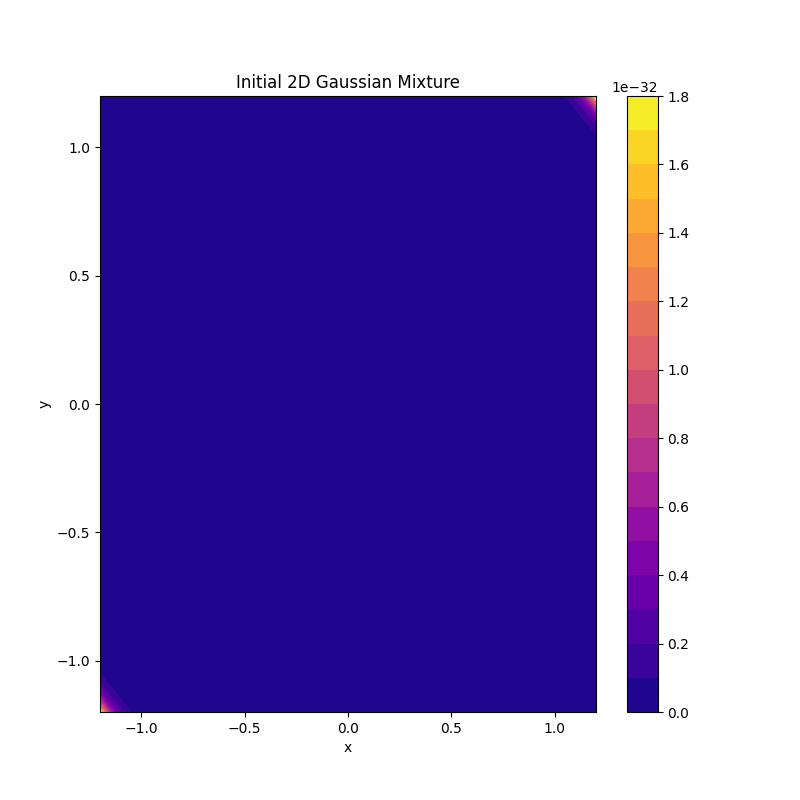
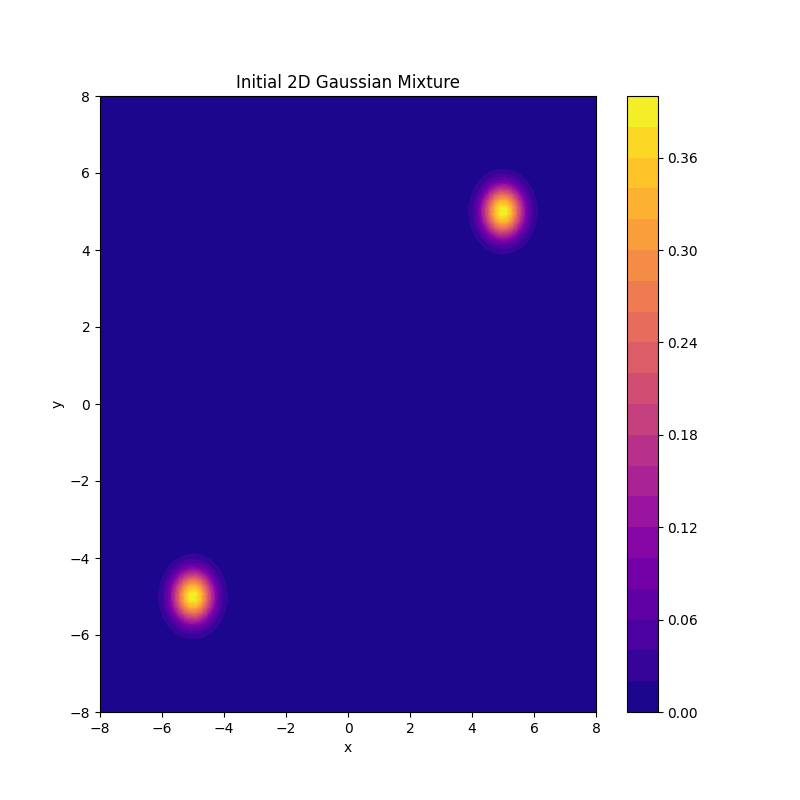
new images and new tikz

diff --git a/beamer_reports/recap_tikz.tex b/beamer_reports/recap_tikz.tex
@@ -17,6 +17,7 @@
     \draw (8,0,0.1) -- (8,0,-0.1) node[below] {$T=8$};
     \draw (5,0,0.1) -- (5,0,-0.1) node[below] {$t_s$};
     \draw (2,0,0.1) -- (2,0,-0.1) node[below] {$t_c$};
+    \draw (0,0,0.1) -- (0,0,-0.1) node[below] {$T=0$};
     
     % Zones de régimes colorées
     \fill[blue!20,opacity=0.3] (8,-2,0) -- (8,2,0) -- (5,2,0) -- (5,-2,0) -- cycle; % Régime III
@@ -28,10 +29,39 @@
     \node[above] at (3.5,0,0) {Régime II};
     \node[above] at (1,0,0) {Régime I};
 
-    % Encarts pour les coupes (y,z) - maintenant perpendiculaires à l'axe du temps
-    \draw[dashed] (1,-1.5,0) -- (1,-1.5,2) -- (1,1.5,2) -- (1,1.5,0) -- cycle; % Encart Régime I
-    \draw[dashed] (3.5,-1.5,0) -- (3.5,-1.5,2) -- (3.5,1.5,2) -- (3.5,1.5,0) -- cycle; % Encart Régime II
-    \draw[dashed] (7,-1.5,0) -- (7,-1.5,2) -- (7,1.5,2) -- (7,1.5,0) -- cycle; % Encart Régime III
+    % Encarts pour les coupes aux extrémités (T=0 et T=8)
+    % T=0
+    \draw[dashed] (0,-1.5,0) -- (0,-1.5,2) -- (0,1.5,2) -- (0,1.5,0) -- cycle;
+    \node[rotate=90, anchor=south] at (0,0,2.3) {mixture.png};
+    
+    % T=8
+    \draw[dashed] (8,-1.5,0) -- (8,-1.5,2) -- (8,1.5,2) -- (8,1.5,0) -- cycle;
+    \node[rotate=90, anchor=south] at (8,0,2.3) {gaussian.png};
+
+    % Encarts pour les coupes (y,z) - maintenant divisés en y+ et y-
+    % Régime I - y positif
+    \draw[dashed] (1,0,0) -- (1,0,2) -- (1,1.5,2) -- (1,1.5,0) -- cycle;
+    \node[anchor=south west, font=\tiny] at (1,0.75,2) {$y>0$};
+    
+    % Régime I - y négatif
+    \draw[dashed] (1,-1.5,0) -- (1,-1.5,2) -- (1,0,2) -- (1,0,0) -- cycle;
+    \node[anchor=north west, font=\tiny] at (1,-0.75,2) {$y<0$};
+    
+    % Régime II - y positif
+    \draw[dashed] (3.5,0,0) -- (3.5,0,2) -- (3.5,1.5,2) -- (3.5,1.5,0) -- cycle;
+    \node[anchor=south west, font=\tiny] at (3.5,0.75,2) {$y>0$};
+    
+    % Régime II - y négatif
+    \draw[dashed] (3.5,-1.5,0) -- (3.5,-1.5,2) -- (3.5,0,2) -- (3.5,0,0) -- cycle;
+    \node[anchor=north west, font=\tiny] at (3.5,-0.75,2) {$y<0$};
+    
+    % Régime III - y positif
+    \draw[dashed] (7,0,0) -- (7,0,2) -- (7,1.5,2) -- (7,1.5,0) -- cycle;
+    \node[anchor=south west, font=\tiny] at (7,0.75,2) {$y>0$};
+    
+    % Régime III - y négatif
+    \draw[dashed] (7,-1.5,0) -- (7,-1.5,2) -- (7,0,2) -- (7,0,0) -- cycle;
+    \node[anchor=north west, font=\tiny] at (7,-0.75,2) {$y<0$};
 
     % Trajectoire 1 (rouge)
     \draw[red,opacity=0.4] plot coordinates {
@@ -147,6 +177,15 @@
         (7.04,1.224,2.089) (7.12,1.220,2.124) (7.20,1.230,2.048) (7.28,1.251,2.083)
         (7.36,1.283,2.144) (7.44,1.330,2.170) (7.52,1.326,2.076) (7.60,1.350,2.088)
         (7.68,1.366,2.016) (7.76,1.305,2.075) (7.84,1.302,2.114) (7.92,1.304,2.115)
+    };
+
+    % Légende pour expliquer les sections
+    \node[anchor=south east, align=left, font=\scriptsize] at (11,2,2) {
+        \textbf{Temps critiques:}\\
+        $T=0$: Distribution initiale (mixture.png)\\
+        $t_c$: Temps critique de collapse\\
+        $t_s$: Temps critique de séparation\\
+        $T=8$: Distribution finale (gaussian.png)
     };
 
 \end{tikzpicture}

diff --git a/beamer_reports/generate_brownian.py b/beamer_reports/generate_brownian.py
@@ -12,8 +12,8 @@ covs = [np.array([[0.2, 0], [0, 0.2]]), np.array([[0.2, 0], [0, 0.2]])]  # Covar
 weights = [0.5, 0.5]  # Equal weights for both modes
 
 # Generate grid for visualization
-x = np.linspace(-1.2, 1.2, 100)
-y = np.linspace(-1.2, 1.2, 100)
+x = np.linspace(-8, 8, 100)
+y = np.linspace(-8, 8, 100)
 X, Y = np.meshgrid(x, y)
 pos = np.dstack((X, Y))
 
